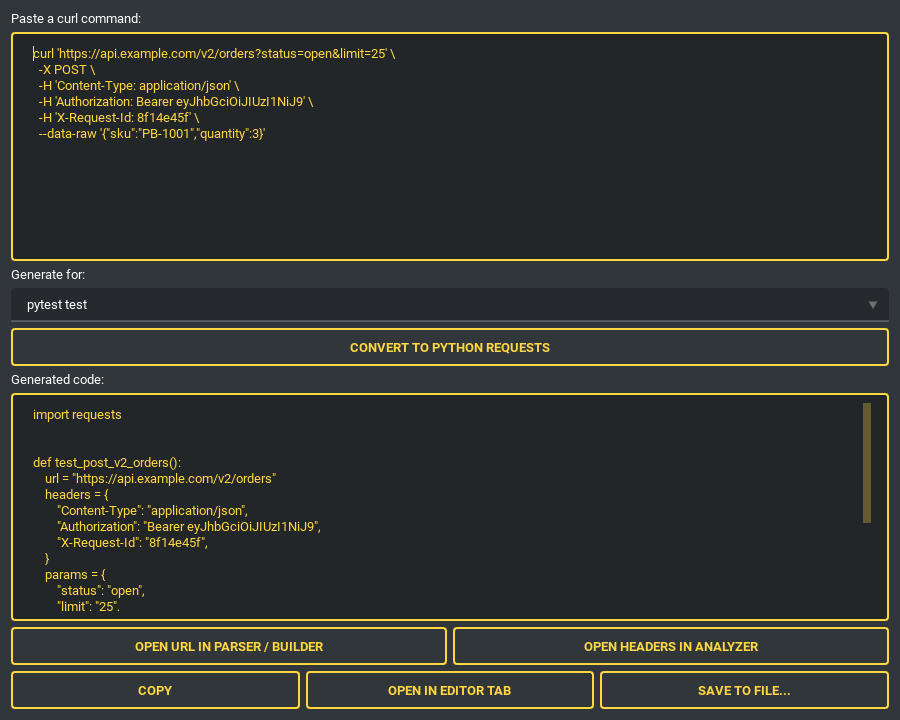
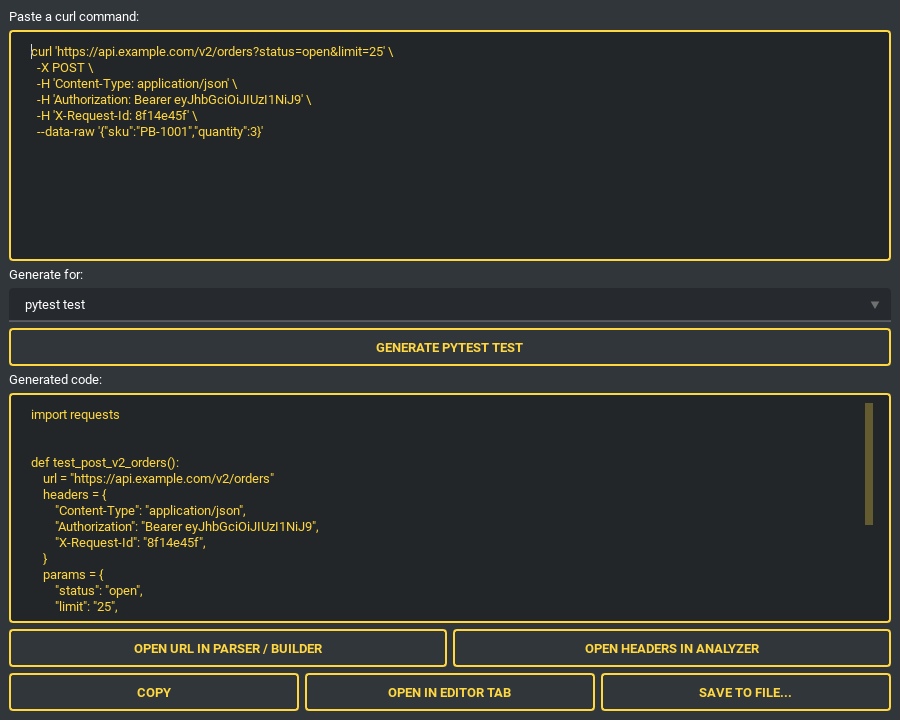
Name the chosen target on the cURL import button

diff --git a/pybreeze/pybreeze_ui/tools_gui/curl_import_gui.py b/pybreeze/pybreeze_ui/tools_gui/curl_import_gui.py
@@ -57,7 +57,8 @@ class CurlImportGUI(QWidget):
             self.target_select.addItem(word.get(label_key), target_key)
         self.target_select.currentIndexChanged.connect(self._on_target_changed)
 
-        self.convert_button = QPushButton(word.get("curl_import_convert_button"))
+        self.convert_button = QPushButton()
+        self._name_convert_button()
         self.convert_button.clicked.connect(self.convert)
 
         self.output_label = QLabel(word.get("curl_import_output_label"))
@@ -100,8 +101,15 @@ class CurlImportGUI(QWidget):
         """Return the template key of the currently selected target."""
         return self.target_select.currentData()
 
+    def _name_convert_button(self) -> None:
+        """Name the chosen target on the button that generates it."""
+        self.convert_button.setText(
+            language_wrapper.language_word_dict.get("curl_import_convert_button").format(
+                target=self.target_select.currentText()))
+
     def _on_target_changed(self, _index: int) -> None:
-        """Regenerate when the target changes, if there is already input."""
+        """Rename the button, and regenerate if there is already input."""
+        self._name_convert_button()
         if exact_text(self.input_edit).strip():
             self.convert()
 

diff --git a/pybreeze/extend_multi_language/extend_traditional_chinese.py b/pybreeze/extend_multi_language/extend_traditional_chinese.py
@@ -394,7 +394,7 @@ pybreeze_traditional_chinese_word_dict = {
     # cURL 匯入 — 介面
     "curl_import_input_label": "貼上 curl 指令：",
     "curl_import_input_placeholder": "curl 'https://api.example.com/v1/items' -H 'Accept: application/json'",
-    "curl_import_convert_button": "轉換為 Python requests",
+    "curl_import_convert_button": "產生 {target}",
     "curl_import_output_label": "產生的程式碼：",
     "curl_import_error": "無法解析 curl 指令：{error}",
     "curl_import_empty_hint": "請先在上方貼上 curl 指令，再按轉換。",

diff --git a/pybreeze/extend_multi_language/extend_english.py b/pybreeze/extend_multi_language/extend_english.py
@@ -430,7 +430,7 @@ pybreeze_english_word_dict = {
     # cURL Import — Widget
     "curl_import_input_label": "Paste a curl command:",
     "curl_import_input_placeholder": "curl 'https://api.example.com/v1/items' -H 'Accept: application/json'",
-    "curl_import_convert_button": "Convert to Python requests",
+    "curl_import_convert_button": "Generate {target}",
     "curl_import_output_label": "Generated code:",
     "curl_import_error": "Could not parse the curl command: {error}",
     "curl_import_empty_hint": "Paste a curl command above, then click convert.",

diff --git a/test/test_utils/test_curl_import_gui.py b/test/test_utils/test_curl_import_gui.py
@@ -32,6 +32,12 @@ def widget(app):
 
 
 class TestCurlImportGUI:
+    def test_the_button_names_the_chosen_target(self, widget):
+        # It said "Convert to Python requests" whichever target was chosen
+        for index in range(widget.target_select.count()):
+            widget.target_select.setCurrentIndex(index)
+            assert widget.target_select.itemText(index) in widget.convert_button.text()
+
     def test_convert_produces_code(self, widget):
         widget.input_edit.setPlainText("curl https://example.com/api")
         widget.convert()

diff --git a/docs/updates/2026-09-b.md b/docs/updates/2026-09-b.md
@@ -971,3 +971,13 @@ Continues [2026-09.md](2026-09.md), which passed the batch size limit. Index and
 - **Done**: all four redone at their old sizes (1080 × 640, 1000 × 620, 1000 × 620, 1000 × 700) with the same content: the same URLs and the same code in the review client, the built-in `first_code_review.md` and `code_review_skill.md` in the editors. The editors ran with `USERPROFILE` set to a throwaway `D:\Users\ada` holding the built-in templates as Create File writes them, so the folder line names no real account; the folder was removed afterwards. The other tool images (cURL, HAR, hash, timestamp, regex, HTTP status, JWT, JSON format, header analyzer, response inspector) match the current tabs and are unchanged.
 - **Files**: `images/ai_code_review.png`, `images/cot_prompt_editor.png`, `images/skill_prompt_editor.png`, `images/skills_send.png`
 - **Open items**: none.
+
+## U-20260924-308 · 2026-09-24 · The cURL import button names the chosen target · #fix #tools #readme
+
+- **What**: the cURL import tab's button said "Convert to Python requests" ("轉換為 Python requests") whatever was chosen under Generate for, so with pytest, APITestka or LoadDensity chosen it named the wrong output; both README screenshots showed it that way.
+- **Fix**: `curl_import_convert_button` is `Generate {target}` (`產生 {target}`), filled with the chosen target's label when the tab opens and whenever the choice changes (`CurlImportGUI._name_convert_button`).
+- **Tests**: `test_the_button_names_the_chosen_target` in `test_curl_import_gui.py` picks each target and expects its label on the button; it failed on the second target before the change.
+- **Result / numbers**: 2403 tests in 131 files. `test_curl_import_gui.py`, `test_language_parity.py` and `test_tools_menu_docks.py` pass (60). `ruff check` clean.
+- **Docs**: `images/tool_curl_import.png` and `images/tool_curl_import_action.png` redone at 900 × 720 with the same command and targets (pytest, APITestka JSON action); `architecture_explore.md` test count. The README text does not name the button.
+- **Files**: `pybreeze/pybreeze_ui/tools_gui/curl_import_gui.py`, `pybreeze/extend_multi_language/extend_english.py`, `pybreeze/extend_multi_language/extend_traditional_chinese.py`, `test/test_utils/test_curl_import_gui.py`, `images/tool_curl_import.png`, `images/tool_curl_import_action.png`, `architecture_explore.md`
+- **Open items**: none.

diff --git a/docs/updates/README.md b/docs/updates/README.md
@@ -58,6 +58,7 @@ In the same commit: delete the item from `progress.md`, add a `#done` entry here
 
 | ID | Date | Title | Tags | Batch |
 |---|---|---|---|---|
+| U-20260924-308 | 2026-09-24 | The cURL import button names the chosen target | #fix #tools #readme | [2026-09-b](2026-09-b.md) |
 | U-20260924-307 | 2026-09-24 | Redo the README screenshots of the AI tabs | #docs #readme | [2026-09-b](2026-09-b.md) |
 | U-20260924-306 | 2026-09-24 | Record the gitpython floor question as progress #109 | #docs #deps #security | [2026-09-b](2026-09-b.md) |
 | U-20260924-305 | 2026-09-24 | Taiwan terms for Help and template in the Traditional Chinese IDE | #fix #i18n | [2026-09-b](2026-09-b.md) |
@@ -389,4 +390,4 @@ In the same commit: delete the item from `progress.md`, add a `#done` entry here
 | File | Period | Entries |
 |---|---|---:|
 | [2026-09.md](2026-09.md) | 2026-09 | 218 |
-| [2026-09-b.md](2026-09-b.md) | 2026-09 | 105 |
+| [2026-09-b.md](2026-09-b.md) | 2026-09 | 106 |
